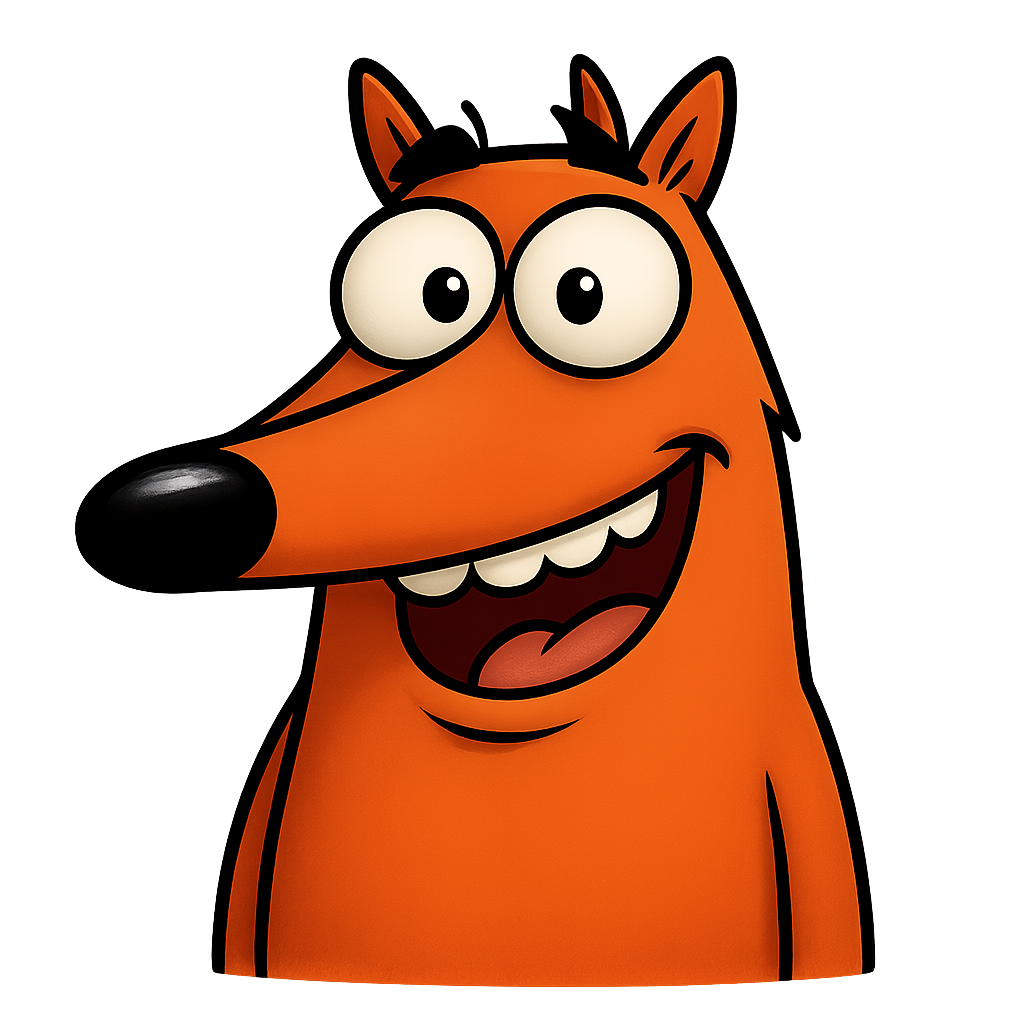
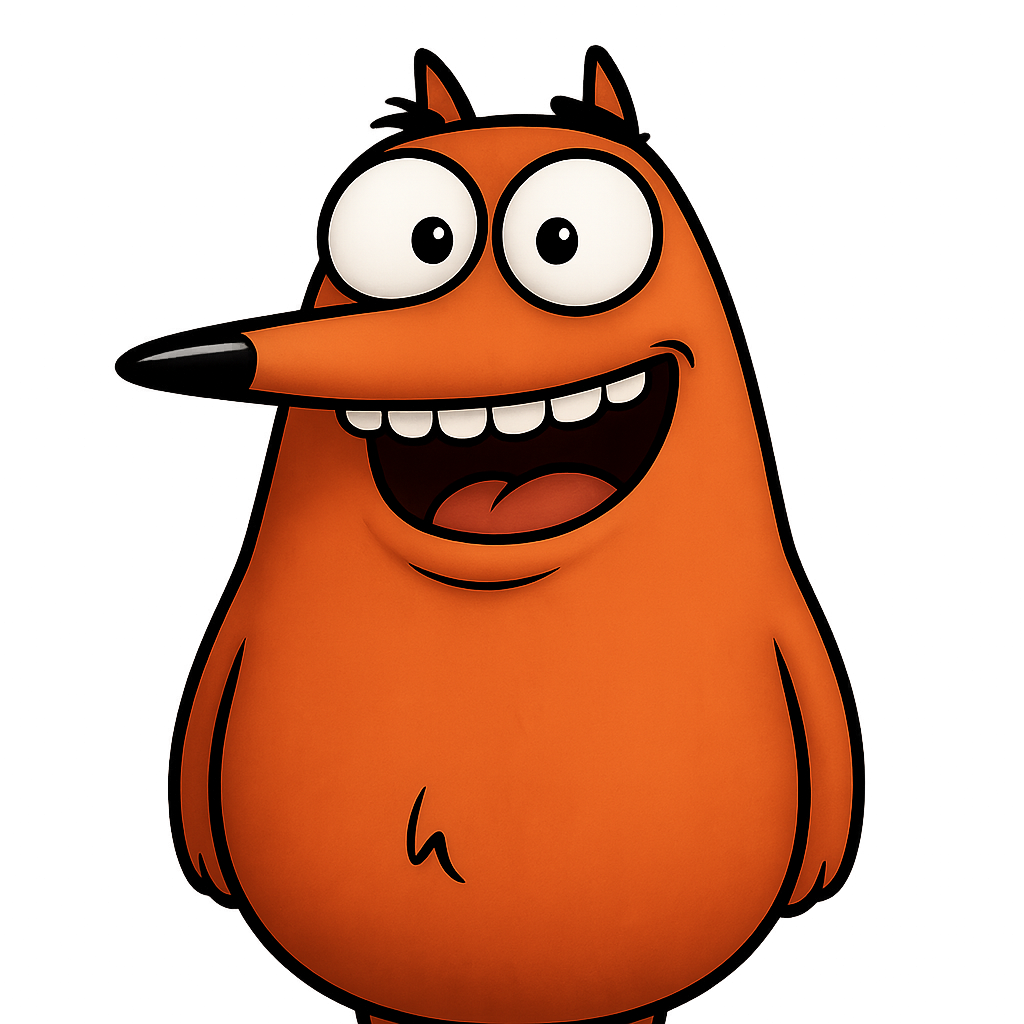
canon(fuzzy): cuadrícula oficial fuzzy-canon-sheet.png + rasgos locked (Alan aprobó)
Canon de Fuzzy = fuzzy_hero + model-sheet derivada (fuzzy-canon-sheet.png, 3 vistas):
- NO frente (ojos altos, orejas justo encima)
- dientes tipo PASTILLA/chiclet
- hocico un poco más largo y puntiagudo
- orejas como hero · cuerpo bean gordito · UNA cola fina (no fox)
Bases lip-sync derivadas: fuzzy-talkbase (boca cerrada+sin manos=fix artefactos Kling),
fuzzy-hero-head (crop busto autenticidad). FUZZY-CANON.md actualizado.

diff --git a/kling-lipsync/FUZZY-CANON.md b/kling-lipsync/FUZZY-CANON.md
@@ -4,13 +4,17 @@ Reglas verbales de Alan (2026-06-04). Estos rasgos NO PUEDEN cambiar en ninguna
 generación (imagen/video/avatar). La gen estaba derivando hacia "zorro" — esto lo corrige.
 Master ref visual: `~/Downloads/fuzzy_tabla_del_6_render/fuzzy_hero.png`.
 
+**EL CANON ES `fuzzy_hero.png`.** La cuadrícula/model-sheet derivada de hero (`fuzzy-canon-sheet.png`) es la referencia oficial. Todo gen referencia eso.
+
 ## LO QUE SIEMPRE ES (locked)
-- **Cuerpo: BEAN-SHAPED** (forma de habichuela / gota). La silueta es innegociable.
-- **Cola: UNA sola cola, FINA y lisa.** Termina en punta simple.
-- **Cabeza: casi SIN frente.** De abajo a arriba: ojos (altos) → orejas justo encima. Con cejas.
+- **Cuerpo: BEAN-SHAPED, gordito** (habichuela rellena). Silueta innegociable.
+- **Cola: UNA sola, FINA y lisa**, punta simple. NUNCA tipo zorro.
+- **NO tiene frente.** Ojos altos → orejas JUSTO encima de los ojos. Con cejas.
 - **Ojos: dos grandes, redondos, blancos, juntos, con cejas oscuras.**
-- **Hocico: largo, fino, negro, puntiagudo** (horizontal).
-- **Color:** naranja brillante. **Outlines** negros gruesos. **Zigzag** fino en la panza. Sombreado 3D suave, estilo cartoon 2D.
+- **Hocico: negro, un poco MÁS LARGO y PUNTIAGUDO** (afilado, horizontal).
+- **Orejas: igual que hero** (puntiagudas, mismo shape).
+- **Dientes: como PASTILLAS / chiclets** (blancos, redondeados, tipo tablet — no triangulares ni colmillos).
+- **Color:** naranja brillante. **Outlines** negros gruesos. **Zigzag** fino en la panza. 3D suave, cartoon 2D.
 
 ## LO QUE NUNCA ES (negativos duros — evitar)
 - ❌ Cola tipo **zorro**: con mucho pelo, gruesa, esponjada, con **mechones/penachos**. (Fuzzy NO es fox.)
@@ -25,6 +29,12 @@ Master ref visual: `~/Downloads/fuzzy_tabla_del_6_render/fuzzy_hero.png`.
 > **ONE single THIN smooth tail ending in a simple point — NOT a fox tail, no fluff, no tufts, not bushy.**
 > Thick black outlines, thin zigzag line on the belly, soft 3D shading, clean 2D children's cartoon.
 > NEGATIVE: no bushy/fox tail, no tail tufts, no wide forehead, no extra fur, no losing the bean body shape.
+
+## Afinamientos (Alan 2026-06-04, tirar hacia esto en próximas gen)
+- **Aún MENOS frente** (ojos casi tocando las orejas).
+- **Hocico más PUNTIAGUDO** (más afilado/largo).
+- **Cuerpo más GORDITO** (bean más redondo/relleno).
+- Fuente para talking-avatar (Kling Digital Human): **boca cerrada suave + sin manos a la vista** (evita dientes mal-animados y manos sin dedos).
 
 ## Resolución (regla de costo)
 Default **720p**. NUNCA generar en la máxima resolución sin OK explícito de Alan (720 suele bastar, ~50% más barato).